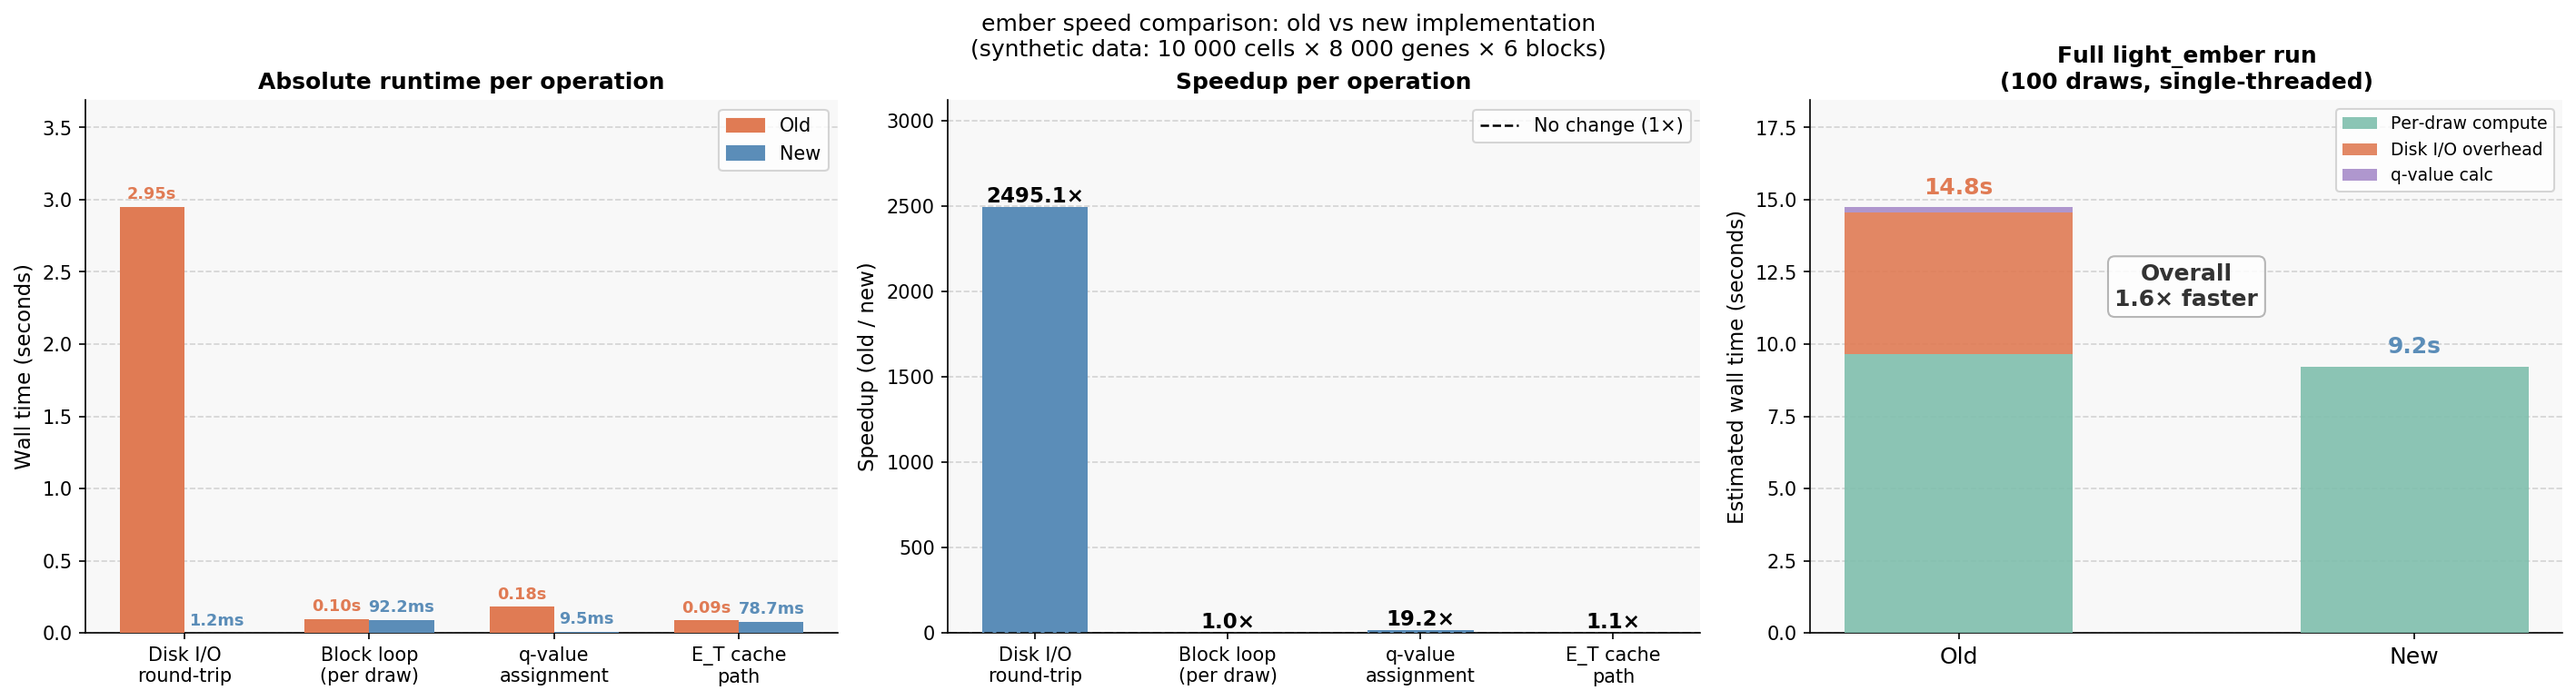
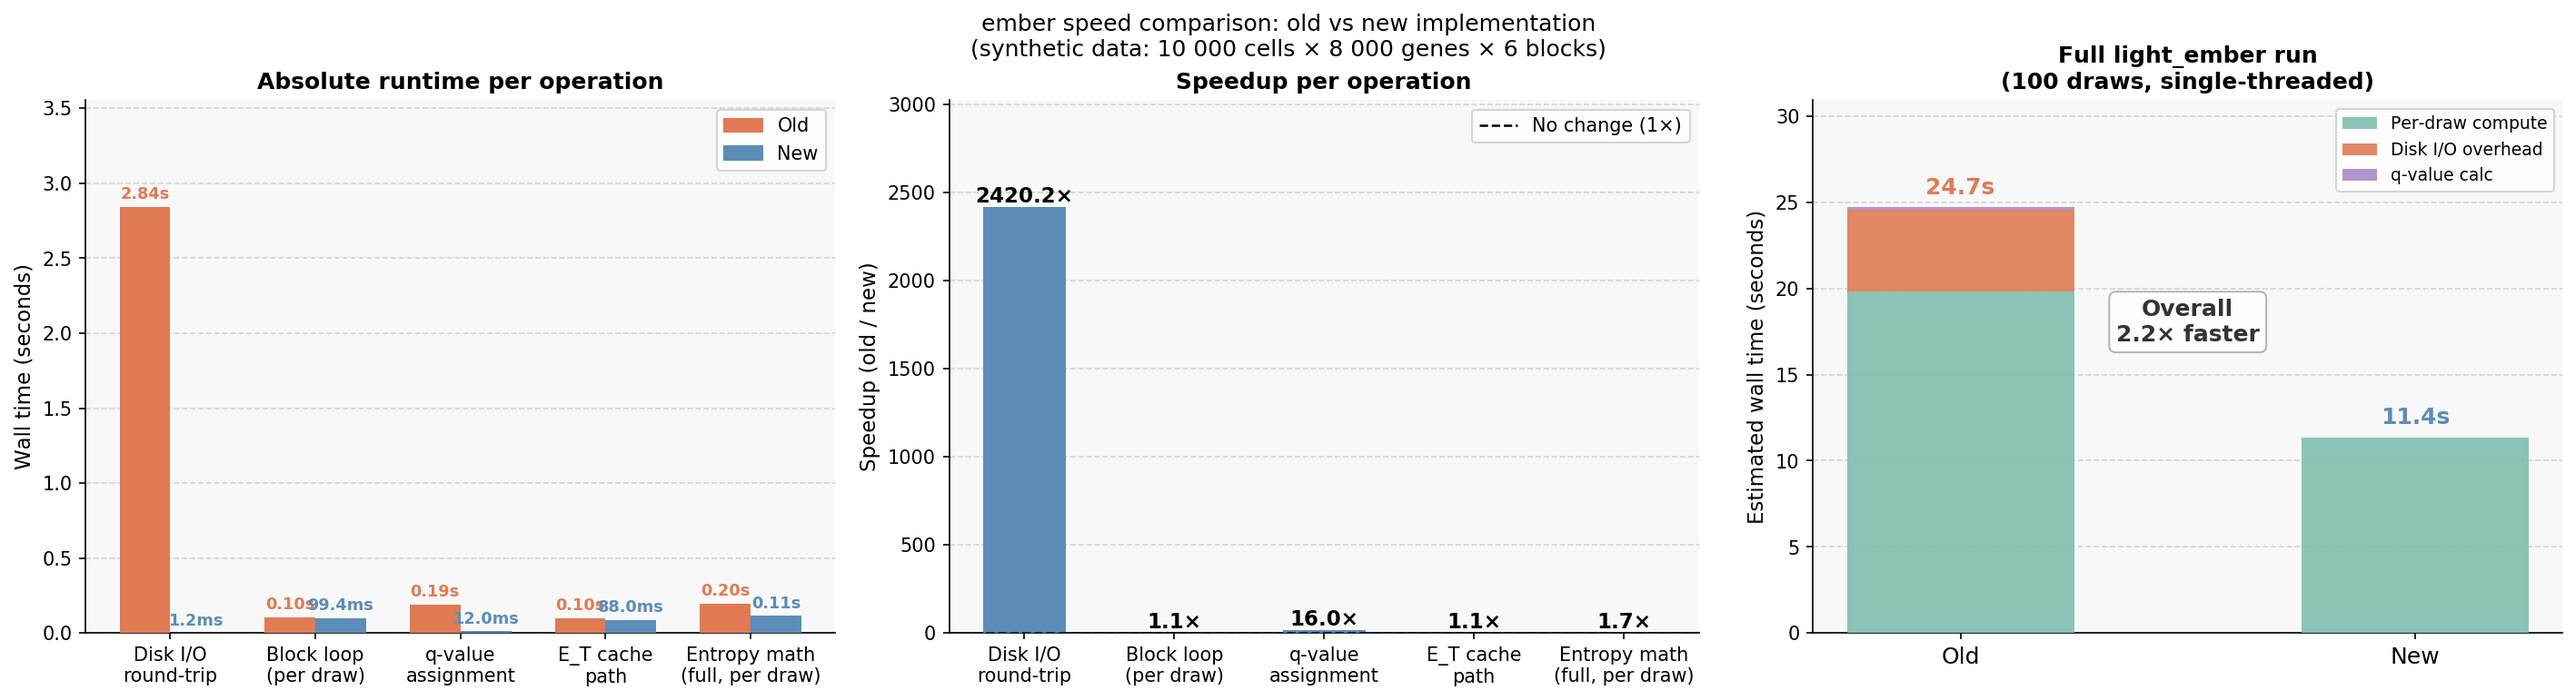
Performance optimizations for entropy metric computation
generate_entropy_metrics.py
  Rewrote the entropy computation to work entirely on raw COO arrays (row, col, data) instead of constructing intermediate sparse matrices. The old approach allocated 2
   + 2×n_blocks CSR matrices per call (p_i, log_p_i, and per-block q_j, log_q_j). The new approach converts to COO once and uses np.bincount with a compound (block_id ×
   n_genes + gene) index to compute E_T and all block entropies in a single vectorised pass — eliminating the per-block loop entirely. The Zeta calculation was also
  moved from DataFrame operations to direct numpy. Removed unused imports (os, random, scanpy, warnings, itertools, collections). ~1.75× speedup per call.

diff --git a/src/ember_py/generate_entropy_metrics.py b/src/ember_py/generate_entropy_metrics.py
@@ -1,13 +1,7 @@
-import os
 import pandas as pd
 import numpy as np
-import random
-from collections import defaultdict
-from itertools import product
-import scanpy as sc
 from scipy import sparse
-import warnings
-from scipy.sparse import csr_matrix, lil_matrix
+from scipy.sparse import csr_matrix
 
 
 def safe_log2_sparse(mat):
@@ -56,97 +50,104 @@ def safe_divide_sparse(numerator, denominator):
 def generate_entropy_metrics(adata, partition_label):
     """
     Generate entropy metrics Psi, Psi_blocks (dataframe) and Zeta.
-    
+
     Entropy metrics generated:
         - Psi : Fraction of infromation explained by partition of choice
         - Psi_block : Specificity of infromation to a block
         - Zeta : Speicifcty to a partition/ distance of Psi_blocks distribution from uniform
-    
+
     Parameters
     ----------
     adata : AnnData
         Annotated data object with `.obs` containing metadata.
     partition_label : str
         Column in `.obs` to partition by when calculating entropy metrics.
- 
-    
+
+
     Returns
     -------
     Psi : np.Array
         A list of Psi scores (between 0 and 1) corresponding to the selected partition for all genes in `.var`.
     Psi_block_df : pd.Dataframe
-        A dataframe of Psi_block scores (between 0 and 1) corresponding to the selected partition for all genes in `.var`. 
-        Scores are caluclated for all blocks, each column of the dataframe corresponds to one block. 
+        A dataframe of Psi_block scores (between 0 and 1) corresponding to the selected partition for all genes in `.var`.
+        Scores are caluclated for all blocks, each column of the dataframe corresponds to one block.
     Zeta : np.Array
         A list of Zeta scores (between 0 and 1) corresponding to the selected partition for all genes in `.var`.
-    
+
     """
-    
+
     counts = adata.X
-    # Input sparse matrix
     if not sparse.issparse(counts):
         counts = csr_matrix(counts)
 
-    # Row-wise sum
+    # Convert to COO once — all entropy work runs on the three raw arrays
+    # (row, col, data) without creating any additional sparse matrices.
+    coo = counts.tocoo()
+    nz_row = np.asarray(coo.row)
+    nz_col = np.asarray(coo.col)
+    nz_data = coo.data.astype(np.float64)
+    n_genes = counts.shape[1]
+
     total_counts_per_gene = np.asarray(counts.sum(axis=0)).ravel()
 
-    # p_i = P(gene | total) across all cells
-    p_i = safe_divide_sparse(counts, total_counts_per_gene)
-    log_p_i = safe_log2_sparse(p_i)
-
-    # Total entropy (E_T)
-    entropy_per_gene = p_i.multiply(log_p_i).sum(axis=0).A1
-    E_T = -entropy_per_gene
+    # ── E_T: total entropy per gene ──────────────────────────────────────────
+    # p_{ij} = counts_{ij} / total_j;  contribution = -p * log2(p)
+    p = nz_data / np.where(total_counts_per_gene[nz_col] > 0,
+                            total_counts_per_gene[nz_col], 1.0)
+    log_p = np.log2(np.where(p > 0, p, 1.0))
+    log_p[p <= 0] = 0
+    E_T = np.bincount(nz_col, weights=-p * log_p, minlength=n_genes)
     E_T[np.isclose(total_counts_per_gene, 0)] = -1
 
+    # ── Within-entropy and Psi_block — single vectorised pass ────────────────
+    # Tag every non-zero with an integer block ID, then use a compound
+    # (block * n_genes + gene) index so np.bincount handles all blocks at once.
     blocks = adata.obs[partition_label].unique()
-    n_genes = adata.shape[1]
     n_blocks = len(blocks)
-
-    # Pre-extract partition labels as numpy array and counts matrix to avoid
-    # repeated AnnData subsetting inside the loop
     obs_partition = adata.obs[partition_label].values
 
-    # Initialize E_W (within entropy) and Psi_block numerator (Psi_block_num)
-    E_W = np.zeros(n_genes)
-    Psi_block_num = np.zeros((n_genes, n_blocks))
+    b2id = {b: i for i, b in enumerate(blocks)}
+    cell_bid = np.array([b2id[b] for b in obs_partition])
+    nz_bid = cell_bid[nz_row]
+    bg_idx = nz_bid * n_genes + nz_col   # linearised (block, gene) index
 
-    for idx, block in enumerate(blocks):
-        mask = obs_partition == block
-        block_counts = counts[mask, :]
-        # Calculate entropy within each block
-        block_sum = np.asarray(block_counts.sum(axis=0)).ravel()
-        q_j = safe_divide_sparse(block_counts, block_sum)
-        log_q_j = safe_log2_sparse(q_j)
-        entropy = -q_j.multiply(log_q_j).sum(axis=0).A1
+    # Block-gene totals
+    bg_sum = np.bincount(bg_idx, weights=nz_data, minlength=n_blocks * n_genes)
 
-        # Contribution of this block to Within Entropy (E_W)
-        p_c_j = np.divide(
-            block_sum,
-            total_counts_per_gene,
-            out=np.zeros_like(block_sum),
-            where=~np.isclose(total_counts_per_gene, 0)
-        )
+    # Within-block probabilities and their entropy contributions
+    denom = bg_sum[bg_idx]
+    pw = np.where(denom > 0, nz_data / denom, 0.0)
+    log_pw = np.log2(np.where(pw > 0, pw, 1.0))
+    log_pw[pw <= 0] = 0
+    bg_ent = np.bincount(bg_idx, weights=-pw * log_pw, minlength=n_blocks * n_genes)
 
-        weighted_entropy = entropy * p_c_j
-        E_W += weighted_entropy
-        Psi_block_num[:, idx] = weighted_entropy
+    bg_sum_2d = bg_sum.reshape(n_blocks, n_genes)   # (n_blocks, n_genes)
+    bg_ent_2d = bg_ent.reshape(n_blocks, n_genes)
 
-    # Psi score
+    # p_c_j = fraction of gene j's total counts belonging to block b
+    p_c_j = np.divide(bg_sum_2d, total_counts_per_gene,
+                      out=np.zeros((n_blocks, n_genes)),
+                      where=~np.isclose(total_counts_per_gene, 0))
+
+    weighted = bg_ent_2d * p_c_j          # (n_blocks, n_genes)
+    E_W = weighted.sum(axis=0)             # (n_genes,)
+    Psi_block_num = weighted.T             # (n_genes, n_blocks)
+
+    # ── Psi score ─────────────────────────────────────────────────────────────
     with np.errstate(invalid='ignore', divide='ignore'):
         Psi = np.where(E_T > 0, E_W / E_T, -1)
 
-    # Psi_block scores
+    # ── Psi_block scores ──────────────────────────────────────────────────────
     with np.errstate(divide='ignore', invalid='ignore'):
         Psi_block = np.divide(Psi_block_num, E_W[:, None], where=E_W[:, None] != 0)
         Psi_block[~np.isfinite(Psi_block)] = 0
 
     Psi_block_df = pd.DataFrame(Psi_block, index=adata.var.index, columns=blocks)
-    
-    # Zeta score 
-    entropy = -np.nansum(Psi_block_df * np.log2(Psi_block_df.where(Psi_block_df > 0)), axis=1)
-    Zeta = 1 - (entropy / np.log2(len(Psi_block_df.columns)))
-    
+
+    # ── Zeta score — pure numpy, no DataFrame operations ─────────────────────
+    safe_pb = np.where(Psi_block > 0, Psi_block, 1.0)
+    log_pb = np.log2(safe_pb)
+    log_pb[Psi_block <= 0] = 0
+    Zeta = 1 - (-np.sum(Psi_block * log_pb, axis=1) / np.log2(n_blocks))
 
     return Psi, Psi_block_df, Zeta
-

diff --git a/benchmark.py b/benchmark.py
@@ -304,18 +304,57 @@ if __name__ == "__main__":
     print("  [4/4] E_T cache path overhead…")
     et_old, et_new = bench_et_cache(n_cells=10000)
 
-    labels   = ["Disk I/O\nround-trip", "Block loop\n(per draw)", "q-value\nassignment", "E_T cache\npath"]
-    old_vals = [io_old, bl_old, qv_old, et_old]
-    new_vals = [io_new, bl_new, qv_new, et_new]
+    print("  [5/5] Full entropy math: sparse intermediate matrices vs COO…")
+    from src.ember_py.generate_entropy_metrics import generate_entropy_metrics as entropy_new
+    import anndata as ad
+    _adata = make_adata(10000, 8000, 6)
+    # old entropy: inline re-implementation using sparse intermediates
+    from scipy.sparse import csr_matrix as _csr
+    from scipy import sparse as _sparse
+    def _safe_log2(m):
+        m2 = m.copy(); m2.data = np.log2(m2.data); m2.data[~np.isfinite(m2.data)] = 0; return m2
+    def _safe_div(num, den):
+        d = np.copy(den); d[np.isclose(d,0)] = np.inf
+        r = num.multiply(1.0/d); r.eliminate_zeros(); return r
+    def entropy_old(adata, pl):
+        c = adata.X
+        if not _sparse.issparse(c): c = _csr(c)
+        tot = np.asarray(c.sum(axis=0)).ravel()
+        pi = _safe_div(c, tot); lpi = _safe_log2(pi)
+        ET = -pi.multiply(lpi).sum(axis=0).A1; ET[np.isclose(tot,0)] = -1
+        blks = adata.obs[pl].unique(); ng = adata.shape[1]; nb = len(blks)
+        op = adata.obs[pl].values; EW = np.zeros(ng); PBN = np.zeros((ng,nb))
+        for idx, blk in enumerate(blks):
+            mask = op == blk; bc = c[mask,:]
+            bs = np.asarray(bc.sum(axis=0)).ravel()
+            q = _safe_div(bc,bs); lq = _safe_log2(q)
+            ent = -q.multiply(lq).sum(axis=0).A1
+            pcj = np.divide(bs,tot,out=np.zeros_like(bs),where=~np.isclose(tot,0))
+            we = ent*pcj; EW+=we; PBN[:,idx]=we
+        with np.errstate(invalid='ignore',divide='ignore'):
+            Psi = np.where(ET>0, EW/ET, -1)
+        with np.errstate(divide='ignore',invalid='ignore'):
+            Pb = np.divide(PBN,EW[:,None],where=EW[:,None]!=0); Pb[~np.isfinite(Pb)]=0
+        Pb_df = pd.DataFrame(Pb, index=adata.var.index, columns=blks)
+        ez = -np.nansum(Pb_df*np.log2(Pb_df.where(Pb_df>0)),axis=1)
+        return Psi, Pb_df, 1-(ez/np.log2(nb))
+    REPS = 6
+    t_e_old = np.mean([( t0:=time.perf_counter(), entropy_old(_adata,"partition"), time.perf_counter()-t0)[2] for _ in range(REPS)])
+    t_e_new = np.mean([( t0:=time.perf_counter(), entropy_new(_adata,"partition"), time.perf_counter()-t0)[2] for _ in range(REPS)])
+
+    labels   = ["Disk I/O\nround-trip", "Block loop\n(per draw)", "q-value\nassignment", "E_T cache\npath", "Entropy math\n(full, per draw)"]
+    old_vals = [io_old, bl_old, qv_old, et_old, t_e_old]
+    new_vals = [io_new, bl_new, qv_new, et_new, t_e_new]
     speedups = [o / n for o, n in zip(old_vals, new_vals)]
 
     # ── Overall light_ember estimate (100 draws, single-threaded) ─────────────
-    # bench_disk_vs_memory used 60 draws; scale I/O cost to 100
+    # bench_disk_vs_memory used 60 draws; scale I/O cost to 100.
+    # Per-draw compute uses the full entropy math timing (t_e_*).
     N_DRAWS = 100
     IO_SCALE = N_DRAWS / 60
 
     overall_segments = {
-        "Per-draw compute":  (N_DRAWS * bl_old,  N_DRAWS * bl_new),
+        "Per-draw compute":  (N_DRAWS * t_e_old,  N_DRAWS * t_e_new),
         "Disk I/O overhead": (io_old * IO_SCALE,  io_new * IO_SCALE),
         "q-value calc":      (qv_old,              qv_new),
     }
@@ -425,5 +464,5 @@ if __name__ == "__main__":
 
     print("\nResults summary:")
     for label, o, n, s in zip(labels, old_vals, new_vals, speedups):
-        print(f"  {label.replace(chr(10), ' '):30s}  old={o:.3f}s  new={n:.4f}s  speedup={s:.1f}x")
-    print(f"\n  Overall light_ember ({N_DRAWS} draws):  old≈{total_old:.1f}s  new≈{total_new:.1f}s  speedup={overall_speedup:.1f}x")
+        print(f"  {label.replace(chr(10),' '):35s}  old={o:.3f}s  new={n:.4f}s  speedup={s:.2f}x")
+    print(f"\n  Overall light_ember ({N_DRAWS} draws):  old≈{total_old:.1f}s  new≈{total_new:.1f}s  speedup={overall_speedup:.2f}x")
